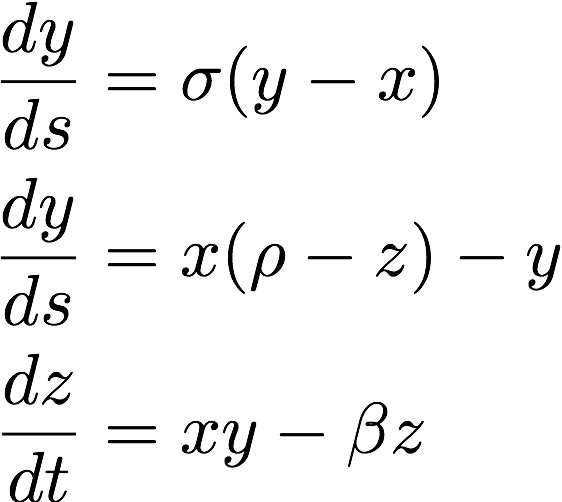
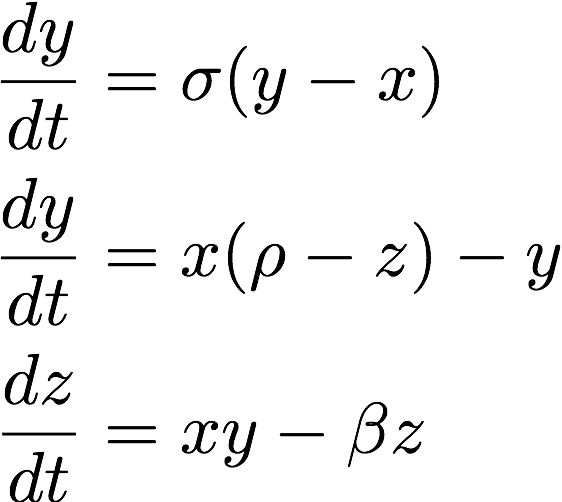
Corrects Lorenz equations

Changed region(s): [[0.0, 0.5378, 0.121, 0.6574], [0.0, 0.1793, 0.121, 0.2988]]

diff --git a/README.md b/README.md
@@ -62,10 +62,10 @@ Lorenz. El sistema de ecuaciones es el siguiente:
 
 La solución más famosa se obtiene con los parámetros &sigma;=10, &beta;=8/3 y
 &rho;=28. Utilice esos parámetros, elija un set de condiciones iniciales
-(x<sub>0</sub>, y<sub>0</sub>, z<sub>0</sub>) e integre la ecuación. Esta vez se
-pide que utilice un algoritmo RK4 pero no necesita implementarlo, puede usar los
-algoritmos disponibles en `scipy.integrate` o cualquier otro que encuentre y que
-sea de uso libre.
+(x<sub>0</sub>, y<sub>0</sub>, z<sub>0</sub>) e integre la ecuación por un
+tiempo que estime conveniente. Esta vez se pide que utilice un algoritmo RK4
+pero no necesita implementarlo, puede usar los algoritmos disponibles en
+`scipy.integrate` o cualquier otro que encuentre y que sea de uso libre.
 
 Plotee en 3D la solución (x(t), y(t), z(t)).
 
